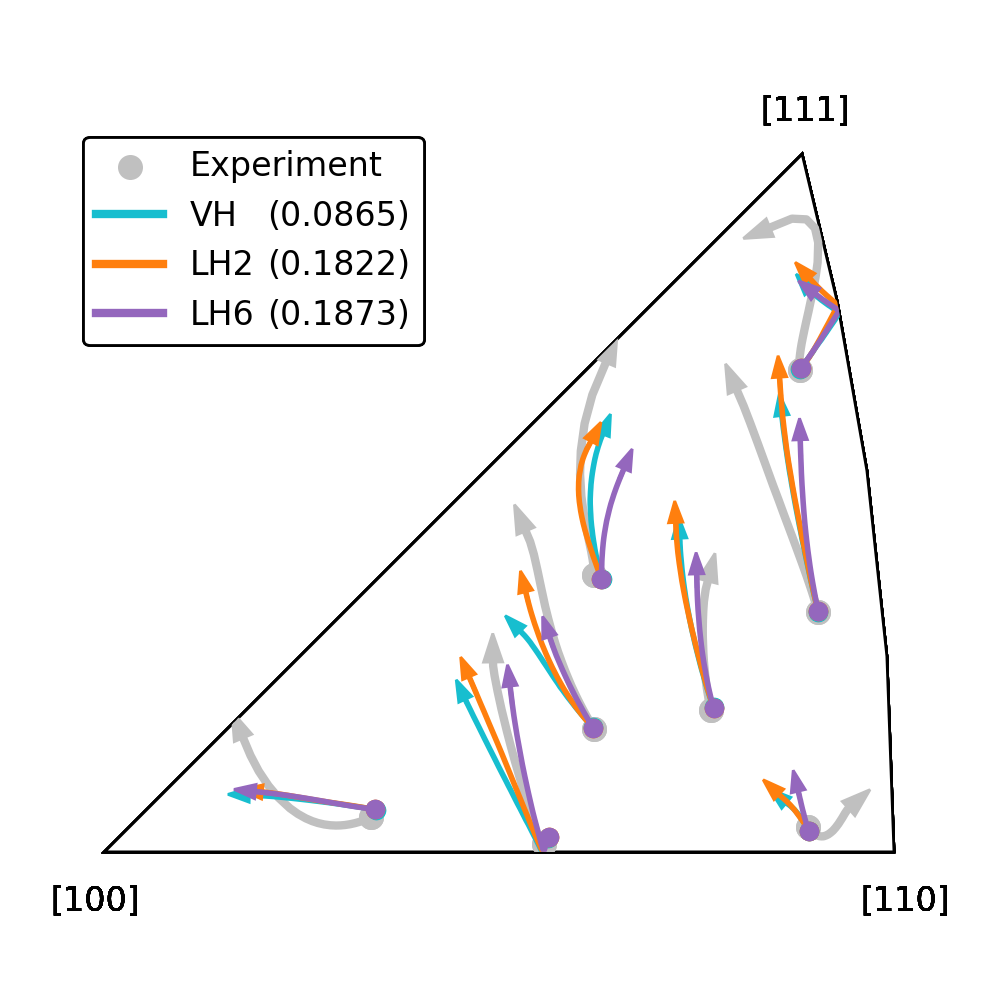
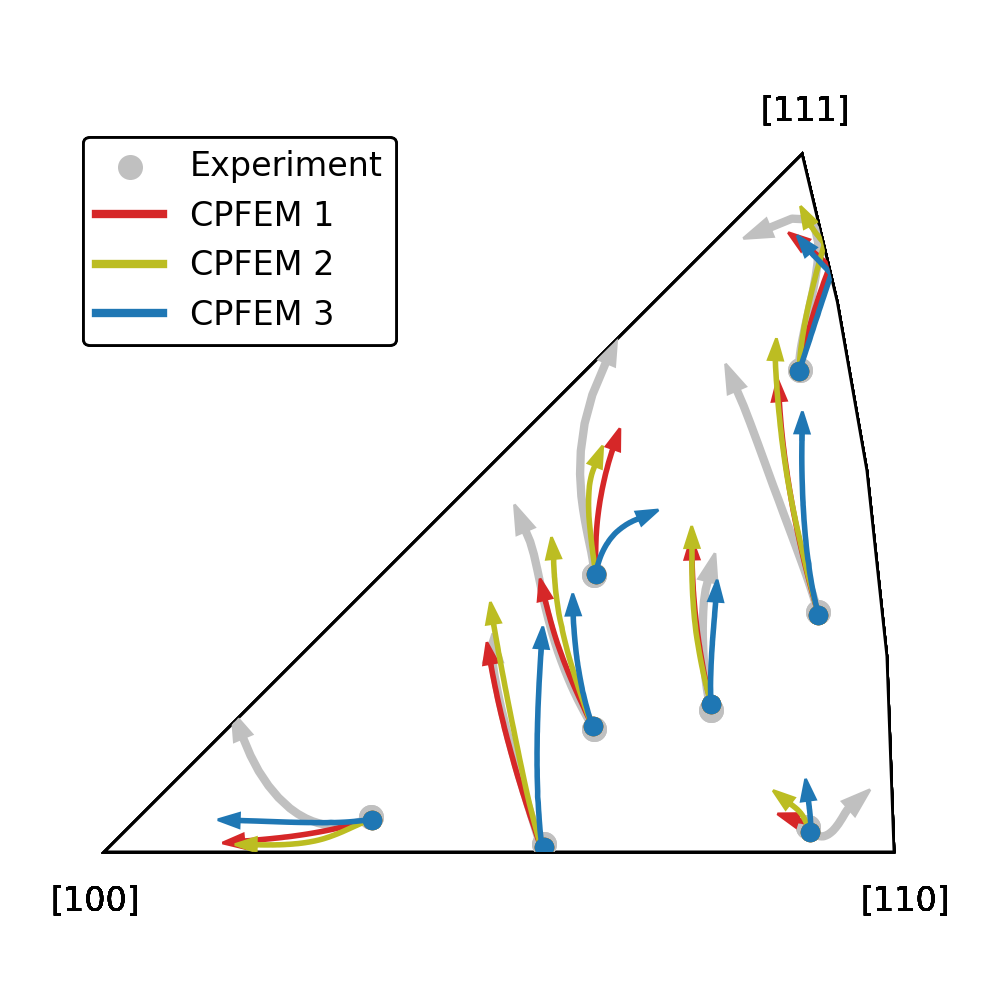
Updated to facilitate MTEX

diff --git a/5. ASMBO/plot_opts.py b/5. ASMBO/plot_opts.py
@@ -26,6 +26,17 @@ ASMBO_PATH = "/mnt/c/Users/janzen/OneDrive - UNSW/H0419460/results/asmbo"
 MOOSE_PATH = "/mnt/c/Users/janzen/OneDrive - UNSW/H0419460/results/moose_sim"
 SIM_INFO_LIST = [
 
+    {"label": "CPFEM 1",  "ebsd_id": "ebsd_4", "colour": "tab:red",   "path": f"{ASMBO_PATH}/2025-03-18 (vh_x_sm8_i41)/250318014435_i21_simulate"},
+    {"label": "CPFEM 2",  "ebsd_id": "ebsd_4", "colour": "tab:olive", "path": f"{ASMBO_PATH}/2025-03-28 (lh2_x_sm8_i29)/250327093649_i16_simulate"},
+    {"label": "CPFEM 3",  "ebsd_id": "ebsd_4", "colour": "tab:blue",  "path": f"{ASMBO_PATH}/2025-04-23 (lh6_x_sm8_i51)/250422034348_i36_simulate"},
+    # {"label": "Surrogate", "ebsd_id": "ebsd_4", "colour": "tab:green", "path": f"data"},
+    # {"label": "CPFEM", "ebsd_id": "ebsd_4", "colour": "tab:red",   "path": f"{ASMBO_PATH}/2025-03-18 (vh_x_sm8_i41)/250318014435_i21_simulate"},
+    # {"label": "Run 1", "ebsd_id": "ebsd_4", "colour": "tab:red", "path": f"{ASMBO_PATH}/2025-03-09 (vh_pin2_sm8_i25)/250308143546_i4_simulate"},
+    # {"label": "Run 2", "ebsd_id": "ebsd_4", "colour": "tab:red", "path": f"{ASMBO_PATH}/2025-03-10 (vh_pin2_sm8_i25)/250310145710_i22_simulate"},
+    # {"label": "Run 3", "ebsd_id": "ebsd_4", "colour": "tab:red", "path": f"{ASMBO_PATH}/2025-03-18 (vh_x_sm8_i41)/250318014435_i21_simulate"},
+    # {"label": "Run 4", "ebsd_id": "ebsd_4", "colour": "tab:red", "path": f"{ASMBO_PATH}/2025-03-25 (vh_x_sm8_i31)/250325072901_i16_simulate"},
+    # {"label": "Run 5", "ebsd_id": "ebsd_4", "colour": "tab:red", "path": f"{ASMBO_PATH}/2025-03-10 (vh_pin2_sm8_i25)/250310161708_i25_simulate"},
+
     # VH Model
     # {"label": "Run 1", "ebsd_id": "ebsd_4", "colour": "tab:green", "path": f"{ASMBO_PATH}/2025-03-09 (vh_pin2_sm8_i25)/250308143546_i4_simulate"},
     # {"label": "Run 2", "ebsd_id": "ebsd_4", "colour": "tab:green", "path": f"{ASMBO_PATH}/2025-03-10 (vh_pin2_sm8_i25)/250310145710_i22_simulate"},
@@ -54,9 +65,9 @@ SIM_INFO_LIST = [
     # {"label": "High-Fidelity", "ebsd_id": "ebsd_2", "colour": "tab:red",   "path": f"{MOOSE_PATH}/2025-04-28 (617_s3_lh6_di_x_hr)"},
     
     # All Models
-    {"label": "VH",  "ebsd_id": "ebsd_2", "colour": "tab:cyan",   "path": f"{MOOSE_PATH}/2025-03-15 (617_s3_vh_x_hr)"},
-    {"label": "LH2", "ebsd_id": "ebsd_2", "colour": "tab:orange", "path": f"{MOOSE_PATH}/2025-04-05 (617_s3_lh2_di_x_hr)"},
-    {"label": "LH6", "ebsd_id": "ebsd_2", "colour": "tab:purple", "path": f"{MOOSE_PATH}/2025-04-28 (617_s3_lh6_di_x_hr)"},
+    # {"label": "VH",  "ebsd_id": "ebsd_2", "colour": "tab:cyan",   "path": f"{MOOSE_PATH}/2025-03-15 (617_s3_vh_x_hr)"},
+    # {"label": "LH2", "ebsd_id": "ebsd_2", "colour": "tab:orange", "path": f"{MOOSE_PATH}/2025-04-05 (617_s3_lh2_di_x_hr)"},
+    # {"label": "LH6", "ebsd_id": "ebsd_2", "colour": "tab:purple", "path": f"{MOOSE_PATH}/2025-04-28 (617_s3_lh6_di_x_hr)"},
 ]
 for si in SIM_INFO_LIST:
     si["data"] = csv_to_dict(f"{si['path']}/summary.csv")
@@ -71,12 +82,13 @@ GRAIN_IDS = [
 OPT_ALPHA = 1.0
 OTH_ALPHA = 0.3
 # SPACING, FORCE_ALPHA = -5.25, None # Runs
-# SPACING, FORCE_ALPHA = -2.25, 1.0  # Fidelity
-SPACING, FORCE_ALPHA = -6.25, 1.0  # Models
+SPACING, FORCE_ALPHA = -2.25, 1.0  # Fidelity
+# SPACING, FORCE_ALPHA = -6.25, 1.0  # Models
 
 # Script parameters
 SHOW_LEGEND   = True
 SHOW_GRAIN_ID = False
+SHOW_ERROR    = False
 STRAIN_FIELD = "average_strain"
 STRESS_FIELD = "average_stress"
 RES_DATA_MAP = "data/res_grain_map.csv"
@@ -184,13 +196,15 @@ def add_supp_legend(error_list:list, alpha_list:list, spacing:float=-5.5) -> Non
     handles += [plt.plot([], [], color=si["colour"], label=si['label'], alpha=alpha, linewidth=3)[0] for si, alpha in zip(SIM_INFO_LIST, alpha_list)]
 
     # Define supplementary information
-    formatted_error_list = [round(error, 4) for error in error_list]
-    formatted_error_list = [str(fe) if len(str(fe)) == 6 else str(fe)+(6-len(str(fe)))*"0" for fe in formatted_error_list]
-    se_label_list = [" "] + [f"({fe})" for fe in formatted_error_list]
-    handles += [plt.scatter([], [], color="white", label=se_label, marker="o", s=0) for se_label in se_label_list]
+    if SHOW_ERROR:
+        formatted_error_list = [round(error, 4) for error in error_list]
+        formatted_error_list = [str(fe) if len(str(fe)) == 6 else str(fe)+(6-len(str(fe)))*"0" for fe in formatted_error_list]
+        se_label_list = [" "] + [f"({fe})" for fe in formatted_error_list]
+        handles += [plt.scatter([], [], color="white", label=se_label, marker="o", s=0) for se_label in se_label_list]
 
     # Add legend
-    legend = plt.legend(handles=handles, ncol=2, columnspacing=spacing, framealpha=1, edgecolor="black",
+    num_cols = 2 if SHOW_ERROR else 1
+    legend = plt.legend(handles=handles, ncol=num_cols, columnspacing=spacing, framealpha=1, edgecolor="black",
                         fancybox=True, facecolor="white", fontsize=12, loc="upper left")
     plt.gca().add_artist(legend)
 

diff --git a/5. ASMBO/plot_mtex.py b/5. ASMBO/plot_mtex.py
@@ -19,13 +19,18 @@ CAL_COLOUR = {"base": "tab:green",  "start": [.85, 0.9, .85], "end": [0.0, 0.5, 
 VH_COLOUR  = {"base": "tab:cyan",   "start": [0.9, 1.0, 1.0], "end": [0.0, 0.8, 0.8]}
 LH2_COLOUR = {"base": "tab:orange", "start": [1.0, 0.9, 0.8], "end": [1.0, 0.5, 0.2]}
 LH6_COLOUR = {"base": "tab:purple", "start": [0.9, 0.8, 1.0], "end": [0.5, 0.0, 0.8]}
+OLV_COLOUR = {"base": "tab:olive",  "start": [1.0, 1.0, 0.9], "end": [0.8, 0.8, 0.0]}
+BLU_COLOUR = {"base": "tab:blue",   "start": [0.9, 0.9, 1.0], "end": [0.1, 0.1, 0.7]}
 
 # Simulation parameters
 # HEADERS, LABELS, COLOURS = ["Experimental", "VH", "LH2", "LH6"], ["   Exp.", "VH", "LH2", "LH6"], [EXP_COLOUR, VH_COLOUR, LH2_COLOUR, LH6_COLOUR]
-HEADERS, LABELS, COLOURS = ["Experimental", "Low-Fidelity", "High-Fidelity"], ["   Exp.", "LF  ", "HF  "], [EXP_COLOUR, CAL_COLOUR, VAL_COLOUR]
+# HEADERS, LABELS, COLOURS = ["Experimental", "Low-Fidelity", "High-Fidelity"], ["   Exp.", "LF  ", "HF  "], [EXP_COLOUR, CAL_COLOUR, VAL_COLOUR]
+# HEADERS, LABELS, COLOURS = ["Experimental", "CPFEM"], ["Exp.  ", "CPFEM"], [EXP_COLOUR, VAL_COLOUR]
+# HEADERS, LABELS, COLOURS = ["Experimental", "Run 1", "Run 2", "Run 3", "Run 4", "Run 5"], ["Exp.  ", "CPFEM"], [EXP_COLOUR]+[VAL_COLOUR]*5
+HEADERS, LABELS, COLOURS = ["Experimental", "CPFEM 1", "CPFEM 2", "CPFEM 3"], ["  Exp.", "1  ", "2  ", "3  "], [EXP_COLOUR, VAL_COLOUR, OLV_COLOUR, BLU_COLOUR]
 
 # Paths
-DATA_PATH    = "data/vh_ti.csv"
+DATA_PATH    = "data/texture_indexes.csv"
 RESULTS_PATH = "results"
 
 # Formatting parameters
@@ -35,6 +40,9 @@ FIGURE_X     = 5*(5/10)
 FIGURE_Y     = 5*(6.5/10)
 SCALE_FACTOR = 10/FIGURE_Y
 # DIM_RATIO    = (FIGURE_X/FIGURE_Y)
+
+# Alpha parameters (None to deactivate)
+ALPHA_LIST = None # [1.0, 0.3, 0.3, 1.0, 0.3, 0.3]
 
 # Plotting constants
 EVAL_STRAINS = [0, 0.00063414, 0.00153, 0.00494, 0.0098, 0.01483, 0.02085, 0.02646, 0.03516, 0.04409, 0.05197, 0.06013, 0.07059, 0.08208, 0.09406, 0.10561, 0.11929, 0.13656, 0.15442, 0.18237, 0.20849, 0.23627, 0.26264, 0.28965]
@@ -85,12 +93,16 @@ def plot_ti(ti_dict:list, ti_colours:list) -> None:
     plotter.set_limits((0,0.3), (1.0,1.6))
 
     # Plot data
-    for ti_list, ti_colour in zip(ti_grid, ti_colours):
-        plt.scatter([EVAL_STRAINS[-1]], ti_list[-1], color=ti_colour, s=8**2)
-        plt.plot(EVAL_STRAINS, ti_list, color=ti_colour, linewidth=3)
+    for i, (ti_list, ti_colour) in enumerate(zip(ti_grid, ti_colours)):
+        alpha = ALPHA_LIST[i] if ALPHA_LIST != None and len(ALPHA_LIST) > i else 1.0
+        plt.scatter([EVAL_STRAINS[-1]], ti_list[-1], color=ti_colour, s=8**2, alpha=alpha)
+        plt.plot(EVAL_STRAINS, ti_list, color=ti_colour, linewidth=3, alpha=alpha)
 
     # Add legend
-    handles = [plt.plot([], [], color=ti_colour, linewidth=3, label=header)[0] for header, ti_colour in zip(HEADERS, ti_colours)]
+    handles = []
+    for i, (header, ti_colour) in enumerate(zip(HEADERS, ti_colours)):
+        alpha = ALPHA_LIST[i] if ALPHA_LIST != None and len(ALPHA_LIST) > i else 1.0
+        handles.append(plt.plot([], [], color=ti_colour, linewidth=3, label=header, alpha=alpha)[0])
     legend = plt.legend(handles=handles, framealpha=1, edgecolor="black", fancybox=True, facecolor="white", fontsize=12, loc="upper left")
     plt.gca().add_artist(legend)
 

diff --git a/5. ASMBO/texture.py b/5. ASMBO/texture.py
@@ -24,6 +24,10 @@ RESULTS_PATH = "results/pf"
 # Simulation information
 SIM_INFO_LIST = [
     
+    {"label": "CPFEM 1", "colour": "tab:green", "lightness": (0.95, 0), "path": f"{ASMBO_PATH}/2025-03-18 (vh_x_sm8_i41)/250318014435_i21_simulate"},
+    {"label": "CPFEM 2", "colour": "tab:green", "lightness": (0.95, 0), "path": f"{ASMBO_PATH}/2025-03-28 (lh2_x_sm8_i29)/250327093649_i16_simulate"},
+    {"label": "CPFEM 3", "colour": "tab:green", "lightness": (0.95, 0), "path": f"{ASMBO_PATH}/2025-04-23 (lh6_x_sm8_i51)/250422034348_i36_simulate"},
+    
     # VH model
     # {"label": "Low-Fidelity",  "colour": "tab:green", "lightness": (0.95, 0), "path": f"{ASMBO_PATH}/2025-03-18 (vh_x_sm8_i41)/250318014435_i21_simulate"},
     # {"label": "High-Fidelity", "colour": "tab:red",   "lightness": (0.95, 0), "path": f"{MOOSE_PATH}/2025-03-15 (617_s3_vh_x_hr)"},
@@ -37,9 +41,9 @@ SIM_INFO_LIST = [
     # {"label": "High-Fidelity", "colour": "tab:red",   "lightness": (0.95, 0), "path": f"{MOOSE_PATH}/2025-04-28 (617_s3_lh6_di_x_hr)"},
 
     # All models
-    {"label": "VH",  "colour": "tab:cyan",   "lightness": (0.95, 0), "path": f"{MOOSE_PATH}/2025-03-15 (617_s3_vh_x_hr)"},
-    {"label": "LH2", "colour": "tab:orange", "lightness": (0.95, 0), "path": f"{MOOSE_PATH}/2025-04-05 (617_s3_lh2_di_x_hr)"},
-    {"label": "LH6", "colour": "tab:red",    "lightness": (0.95, 0), "path": f"{MOOSE_PATH}/2025-04-28 (617_s3_lh6_di_x_hr)"},
+    # {"label": "VH",  "colour": "tab:cyan",   "lightness": (0.95, 0), "path": f"{MOOSE_PATH}/2025-03-15 (617_s3_vh_x_hr)"},
+    # {"label": "LH2", "colour": "tab:orange", "lightness": (0.95, 0), "path": f"{MOOSE_PATH}/2025-04-05 (617_s3_lh2_di_x_hr)"},
+    # {"label": "LH6", "colour": "tab:red",    "lightness": (0.95, 0), "path": f"{MOOSE_PATH}/2025-04-28 (617_s3_lh6_di_x_hr)"},
 ]
 EXP_INFO = {"colour": "silver", "lightness": (0.95, 0)}
 

diff --git a/4. TORCH/export_sm.py b/4. TORCH/export_sm.py
@@ -1,0 +1,38 @@
+"""
+ Title:         Plot Surrogate
+ Description:   Plots the response of the surrogate model
+ Author:        Janzen Choi
+
+"""
+
+# Libraries
+import sys; sys.path += ["..", "/home/janzen/code/mms"]
+from __common__.io import dict_to_csv
+from __common__.surrogate import Model
+
+# Paths
+EXP_PATH = "data/617_s3_exp.csv"
+ASMBO_PATH = "/mnt/c/Users/janzen/OneDrive - UNSW/H0419460/results/asmbo"
+MOOSE_PATH = "/mnt/c/Users/janzen/OneDrive - UNSW/H0419460/results/moose_sim"
+DIRECTORY = f"{ASMBO_PATH}/2025-03-18 (vh_x_sm8_i41)/250318012854_i21_surrogate"
+SUR_PATH = f"{DIRECTORY}/sm.pt"
+MAP_PATH = f"{DIRECTORY}/map.csv"
+RESULTS_PATH = "../5. ASMBO/data/summary.csv"
+
+# Constants
+MAX_STRAIN = 0.29
+PARAM_LIST = [1938.4, 0.17367, 149.03, 6.1855]
+
+# Main function
+def main():
+    model = Model(SUR_PATH, MAP_PATH, EXP_PATH, MAX_STRAIN)
+    res_dict = model.get_response(PARAM_LIST)
+    for key in res_dict.keys():
+        res_dict[key] = list(res_dict[key])
+    res_dict["average_strain"] = res_dict["strain"]
+    res_dict["average_stress"] = res_dict["stress"]
+    dict_to_csv(res_dict, RESULTS_PATH)
+
+# Calls the main function
+if __name__ == "__main__":
+    main()
